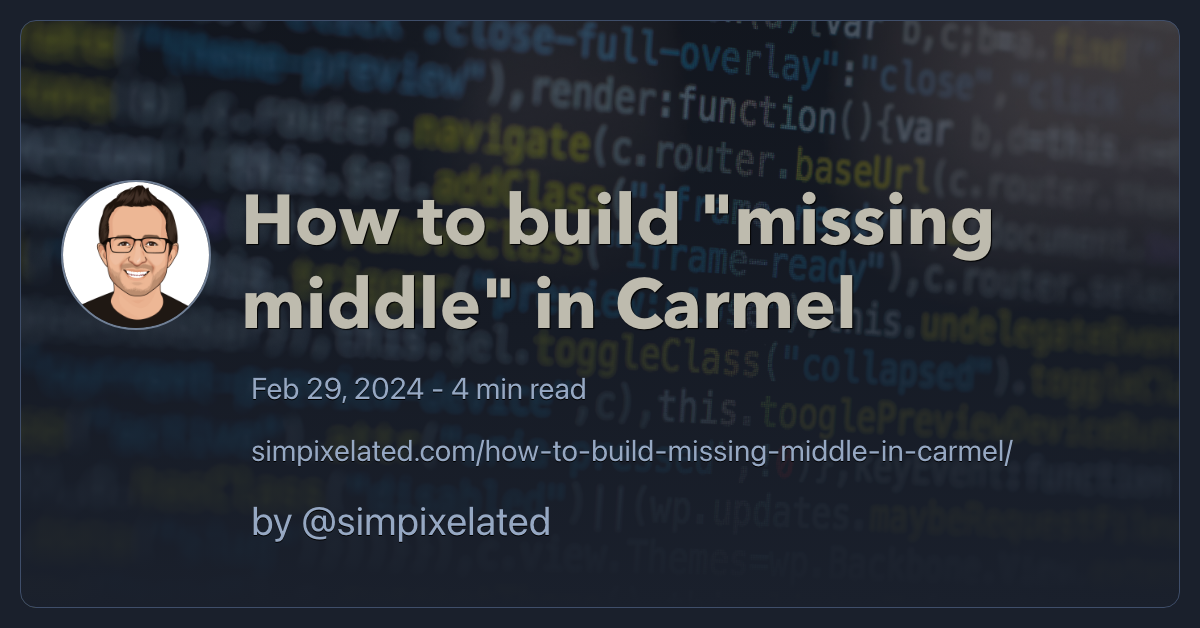
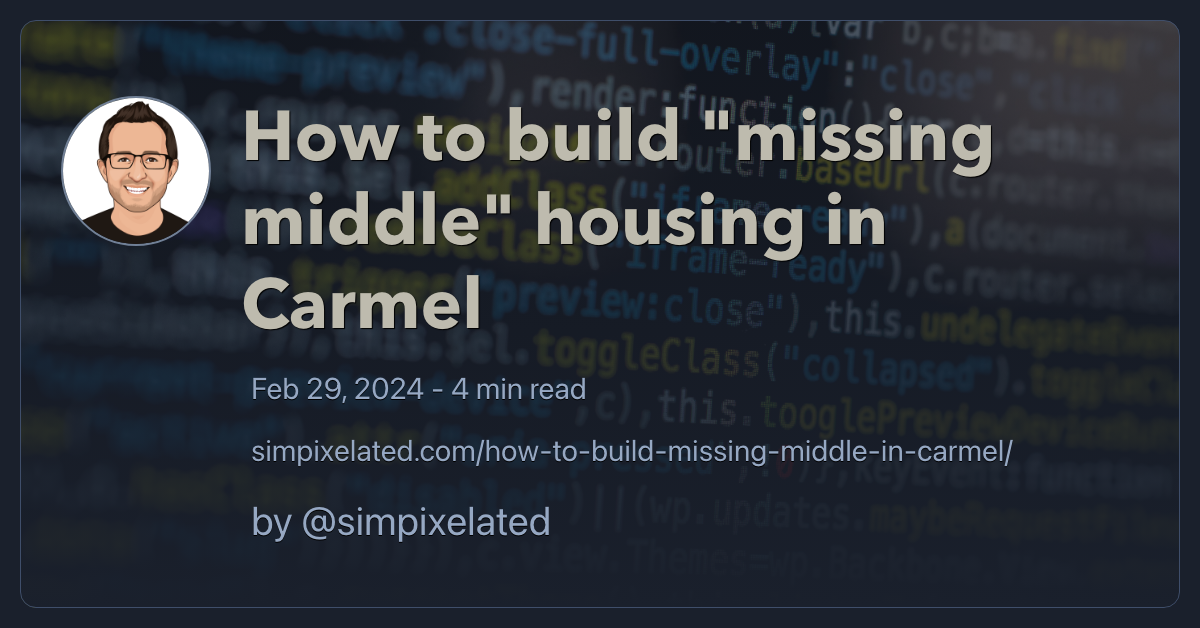
adds "housing" to missing middle article, without changing the permalink (#210)
* updates title and sets permalink for missing middle housing article

* updates social share image

Changed region(s): [[0.0308, 0.1513, 0.8325, 0.5446]]

diff --git a/src/posts/how-to-build-missing-middle-in-carmel.md b/src/posts/how-to-build-missing-middle-in-carmel.md
@@ -1,6 +1,7 @@
 ---
 date: 2024-03-01
-title: How to build "missing middle" in Carmel
+title: How to build "missing middle" housing in Carmel
+permalink: "how-to-build-missing-middle-in-carmel/"
 tags:
   - urbanism
   - housing
